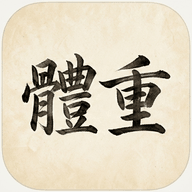
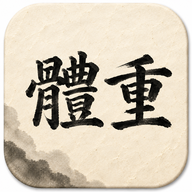
앱 아이콘 교체 및 이름을 My Weight로 변경

diff --git a/sw.js b/sw.js
@@ -1,4 +1,4 @@
-const CACHE="weight-note-v4";
+const CACHE="weight-note-v5";
 // index.html은 캐시 목록에 넣지 않는다 (Cloudflare가 /index.html을 리다이렉트하므로).
 // 루트 "/"만 앱 셸로 캐시한다.
 const ASSETS=["/","/manifest.webmanifest","/icon-192.png","/icon-512.png"];
